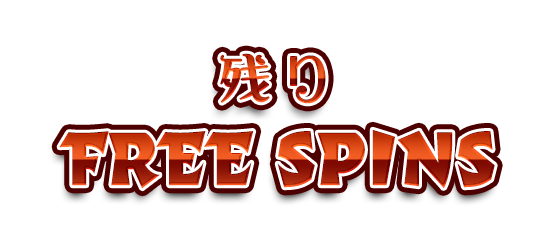
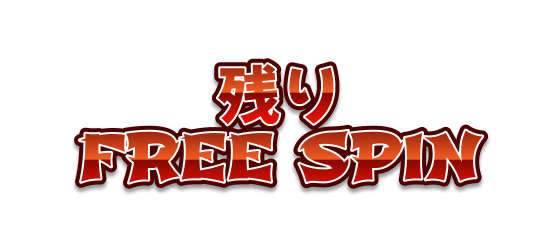
chore : update toglee and i18n image

Changed region(s): [[0.0911, 0.168, 0.9107, 0.812]]

diff --git a/src/assets/resources/i18n/vi.ts b/src/assets/resources/i18n/vi.ts
@@ -351,7 +351,7 @@ export const languages = {
         "index": "STT",
         "in_free_spins": "Trong {value} Free Spins",
         "label_on_game_icon": "Nổ Sập",
-        "last_free_spin": "Lượt Free Spin Cuối",
+        "last_free_spin": "Free Spin Cuối",
         "mega_win": "Thắng Siêu Lớn",
         "multiplier": "Số Nhân",
         "multiplier_preview_odds": "Biểu tượng số nhân sẽ được áp dụng khi có kết quả thắng.",
@@ -363,7 +363,7 @@ export const languages = {
         "press_to_continue": "Bấm Vào Vị Trí Bất Kỳ Để Tiếp Tục",
         "reach_max_win": "Bạn Đã Đạt Mức Tiền Thắng Tối Đa",
         "real_mode": "Chơi Thật",
-        "remaining_free_spins": "Lượt Free Spin Còn Lại",
+        "remaining_free_spins": "Free Spin Còn Lại",
         "round_settle_msg": "Chúc may mắn!",
         "scatter_odds_preview": "%{numOfScatters}+ Scatters kích hoạt %{numOfSpins} FREE SPINS.",
         "show_msg_when_spin_desktop": "Bấm Quay hoặc giữ phím Space",
@@ -392,7 +392,7 @@ export const languages = {
         "you_win_free_spin": "Bạn đã thắng",
         "msg_random_multipliers": "Hệ Số Nhân ngẫu nhiên lên đến 500x",
         "btn_buy_free_spins": "Mua\nFree Spins",
-        "msg_free_spins": "Hệ Số Nhân tăng dần trong Free Spin",
+        "msg_free_spins": "Hệ Số Nhân cộng dồn trong Free Spin",
         "turbo_icon": "Siêu Tốc"
     },
     "Olympub": {

diff --git a/src/assets/resources/i18n/ja.ts b/src/assets/resources/i18n/ja.ts
@@ -338,7 +338,7 @@ export const languages = {
         "from_settle_to_spin1": "スピンして勝とう！",
         "from_settle_to_spin2": "もっと回して、もっと勝とう！",
         "from_settle_to_spin3": "ターボモードを試そう！",
-        "gameNames.47": "トレジャーアイランド",
+        "gameNames.47": "Treasure Island",
         "header_initial_spin": "初回スピン",
         "header_no": "回",
         "header_result_board": "スピン結果",
